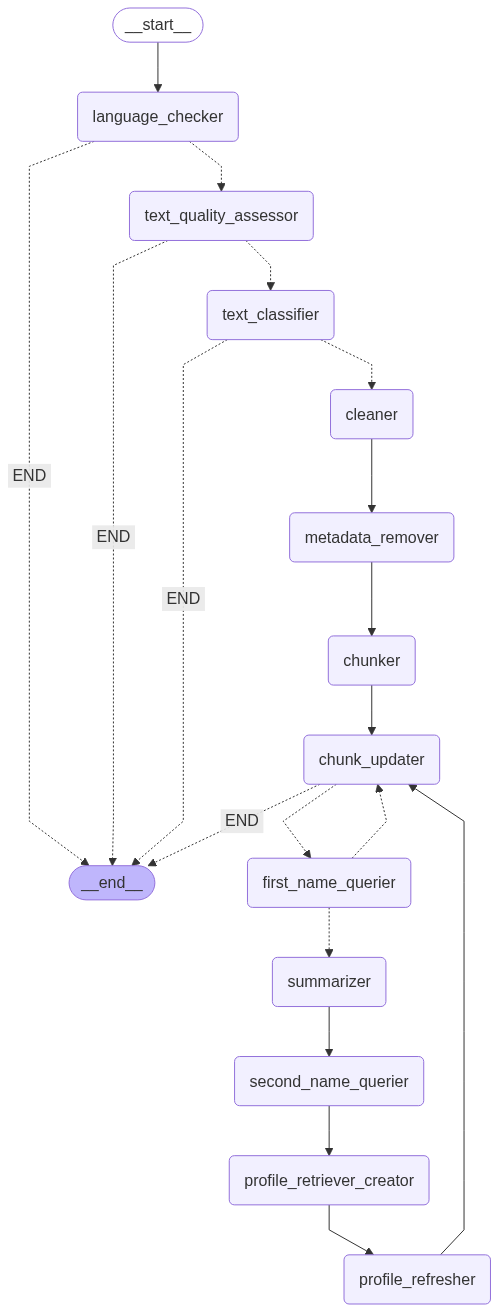
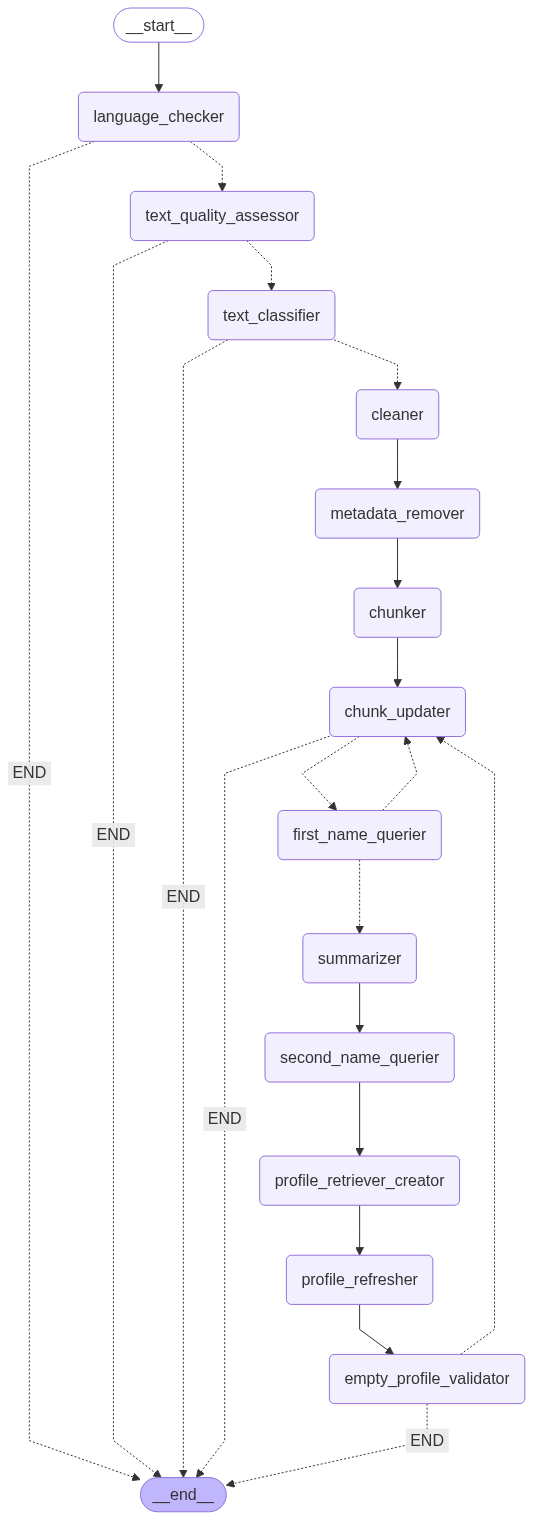
sovled db update issue

diff --git a/ai_workflow/src/graphs/nodes/regular_nodes.py b/ai_workflow/src/graphs/nodes/regular_nodes.py
@@ -183,7 +183,8 @@ def profile_retriever_creator(state: State):
                 'aliases': [],
             }
             
-            character_db.insert_character(name, new_profile)
+            # Insert character and get the generated ID
+            character_id = character_db.insert_character(name, new_profile)
             
             # Create data dictionary that will be send to the LLM
             profile = Profile(
@@ -196,7 +197,7 @@ def profile_retriever_creator(state: State):
                 events=[],
                 relationships=[],
                 aliases=[],
-                id='',
+                id=character_id,  # Use the generated ID from database
             )
             profiles.append(profile)
     
@@ -245,10 +246,12 @@ def profile_refresher(state: State):
             'aliases': profile_data.aliases,
         }
     
-        character_db.update_character(
-            profile_data.id,
-            updated_profile_dict
-        )
+        # Only update if the profile has a valid ID
+        if profile_data.id:
+            character_db.update_character(
+                profile_data.id,
+                updated_profile_dict
+            )
     
     return {
         'last_profiles': updated_profiles,
@@ -395,13 +398,13 @@ def text_classifier(state: State):
 
 
 
-def Empty_profile_validator(state: State):
+def empty_profile_validator(state: State):
     """
     Node that validates Empty profiles and Suggest Changes.
     """
     if not state['last_profiles']:
         return {
-            'profile_validation': EmptyProfileValidation(
+            'empty_profile_validation': EmptyProfileValidation(
                 has_empty_profiles=False,
                 empty_profiles=[],
                 suggestions=["لا توجد بروفايلات للتحقق منها"],
@@ -432,7 +435,7 @@ def Empty_profile_validator(state: State):
     
     chain = empty_profile_validation_prompt | empty_profile_validation_llm
     response = chain.invoke(chain_input)
-    Empty_validation = EmptyProfileValidation(
+    empty_profile_validation = EmptyProfileValidation(
         has_empty_profiles= response.has_empty_profiles,
         empty_profiles=response.empty_profiles,
         suggestions=response.suggestions,
@@ -469,10 +472,13 @@ def Empty_profile_validator(state: State):
             'aliases': profile_data.aliases,
         }
     
-        character_db.update_character(
-            profile_data.id,
-            updated_profile_dict
-        )
+        # Only update if the profile has a valid ID
+        if profile_data.id:
+            character_db.update_character(
+                profile_data.id,
+                updated_profile_dict
+            )
     return {
-        'empty_profile_validation': Empty_validation
+        'empty_profile_validation': empty_profile_validation,
+        'last_profiles': updated_profiles  # Also update last_profiles with the validated profiles
     }

diff --git a/ai_workflow/src/graphs/graph_builders.py b/ai_workflow/src/graphs/graph_builders.py
@@ -17,7 +17,7 @@ graph.add_node('metadata_remover', metadata_remover)
 graph.add_node('text_quality_assessor', text_quality_assessor)
 graph.add_node('text_classifier', text_classifier)
 
-graph.add_node('empty_profile_validator', Empty_profile_validator)
+graph.add_node('empty_profile_validator', empty_profile_validator)
 
 
 graph.set_entry_point('language_checker')
@@ -63,7 +63,6 @@ graph.add_conditional_edges(
     }
 )
 
-graph.add_edge('profile_refresher', 'chunk_updater')
 
 graph.add_edge('summarizer', 'second_name_querier')
 
